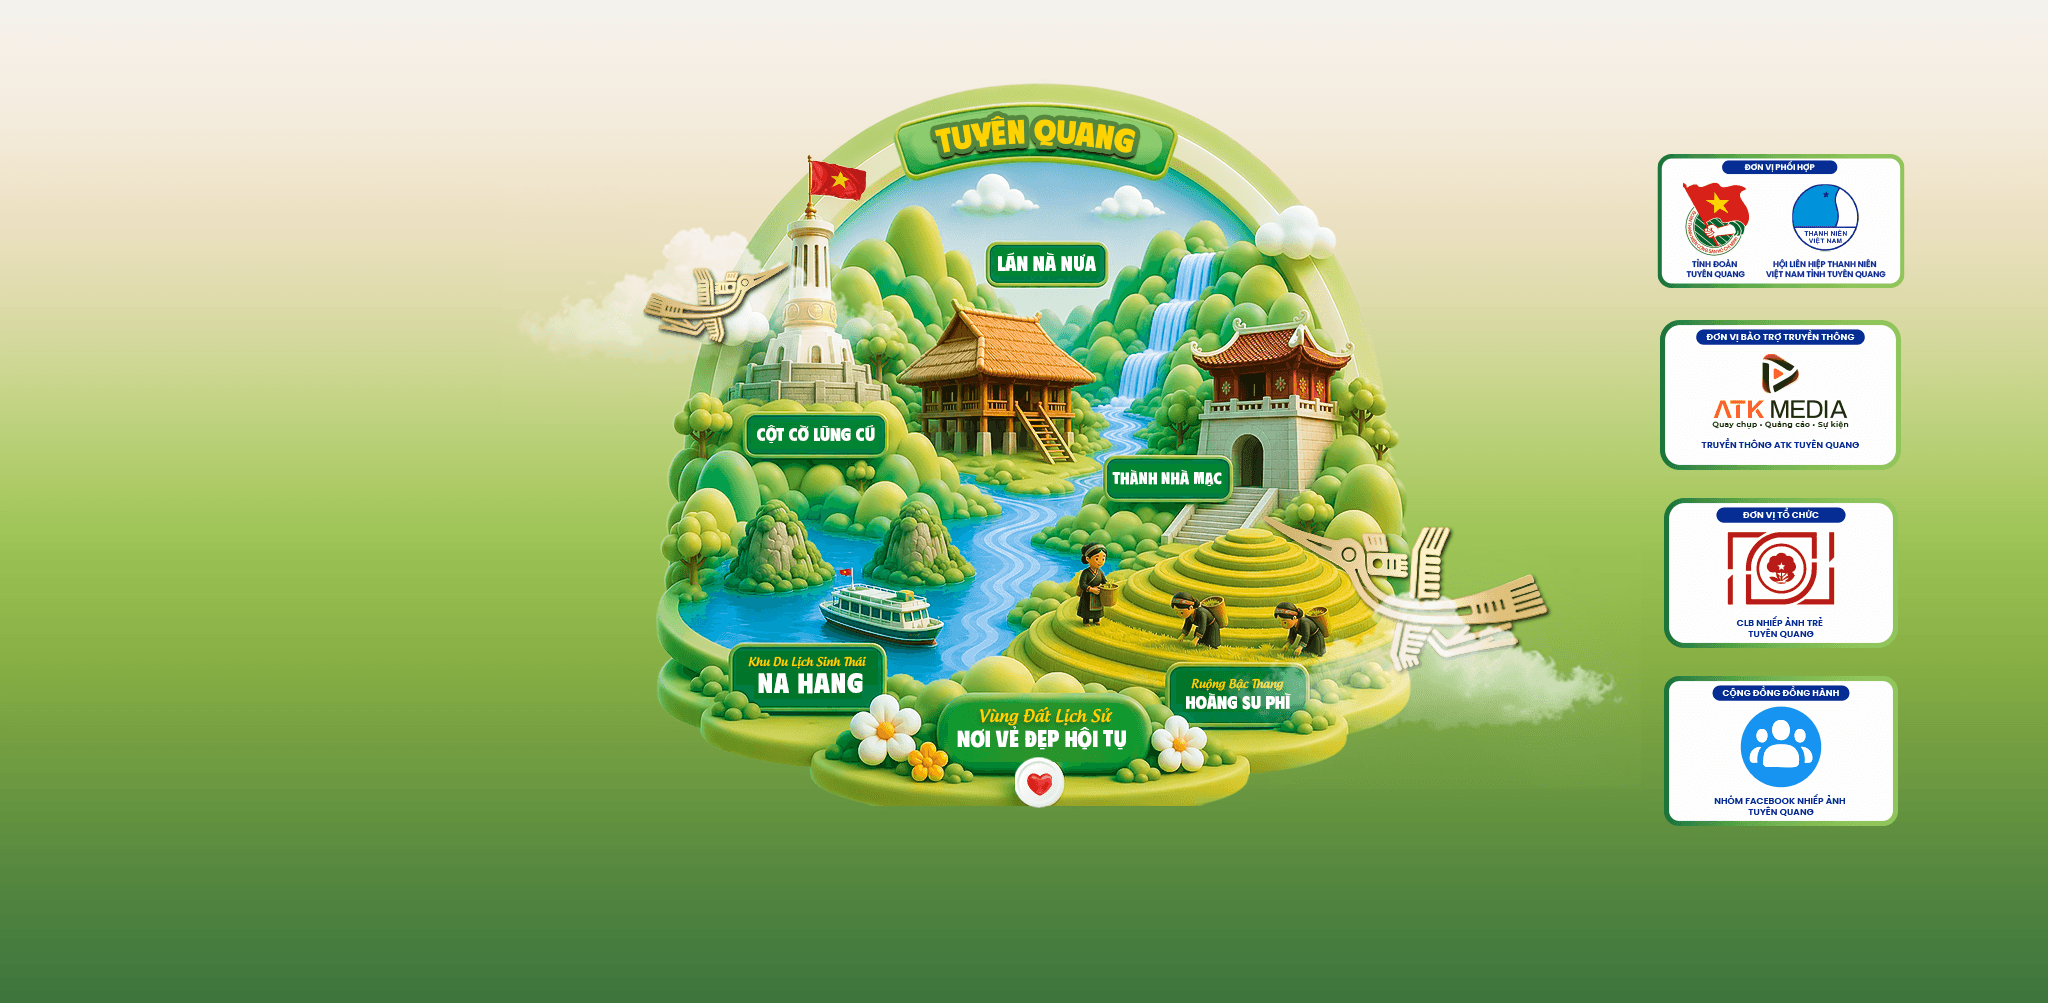
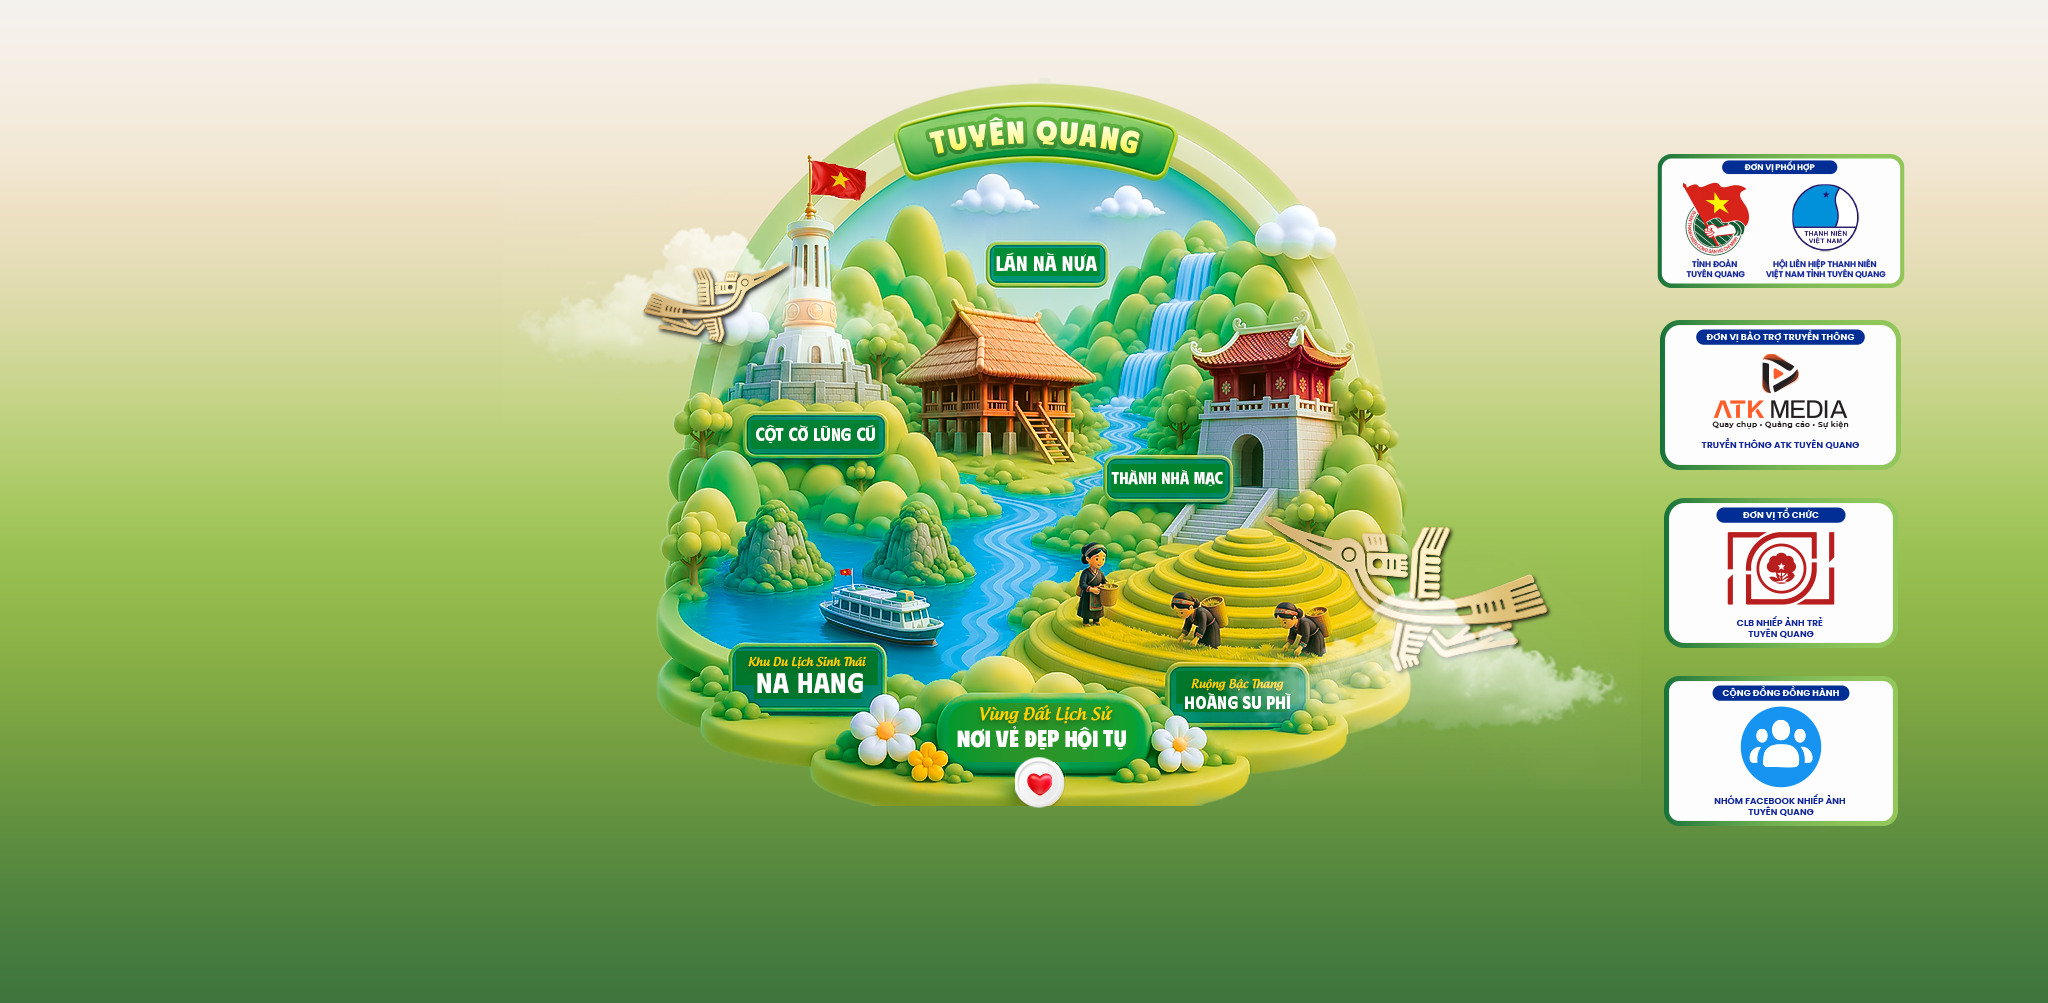
Update giaodien

Changed region(s): [[0.3125, 0.0927, 0.6562, 0.7727], [0.875, 0.2164, 0.9062, 0.2473]]

diff --git a/tuyen-quang-web/src/components/homepage.jsx b/tuyen-quang-web/src/components/homepage.jsx
@@ -3,6 +3,7 @@ import { Link } from "react-router-dom"
 import heroBackground from "../assets/hero-background.png"
 import heroMapTuyenQuang from "../assets/hero-map-tuyen-quang.png"
 import logoTuyenQuangDoc from "../assets/logo-tuyen-quang-doc.png"
+import whiteLogoCuocThi from "../assets/whitelogo-cuocthi.png"
 import iconDangKy from "../assets/icon-dang-ky.svg"
 import iconTheLe from "../assets/icon-the-le.svg"
 import mucDichHero from "../assets/muc-dich-hero.png"
@@ -283,7 +284,7 @@ function HomePage() {
 
     {/* Logo dọc bên trái */}
     <img
-      src={logoTuyenQuangDoc}
+      src={whiteLogoCuocThi}
       alt="Logo Tuyên Quang Trong Tôi 2026"
       className="
         absolute
